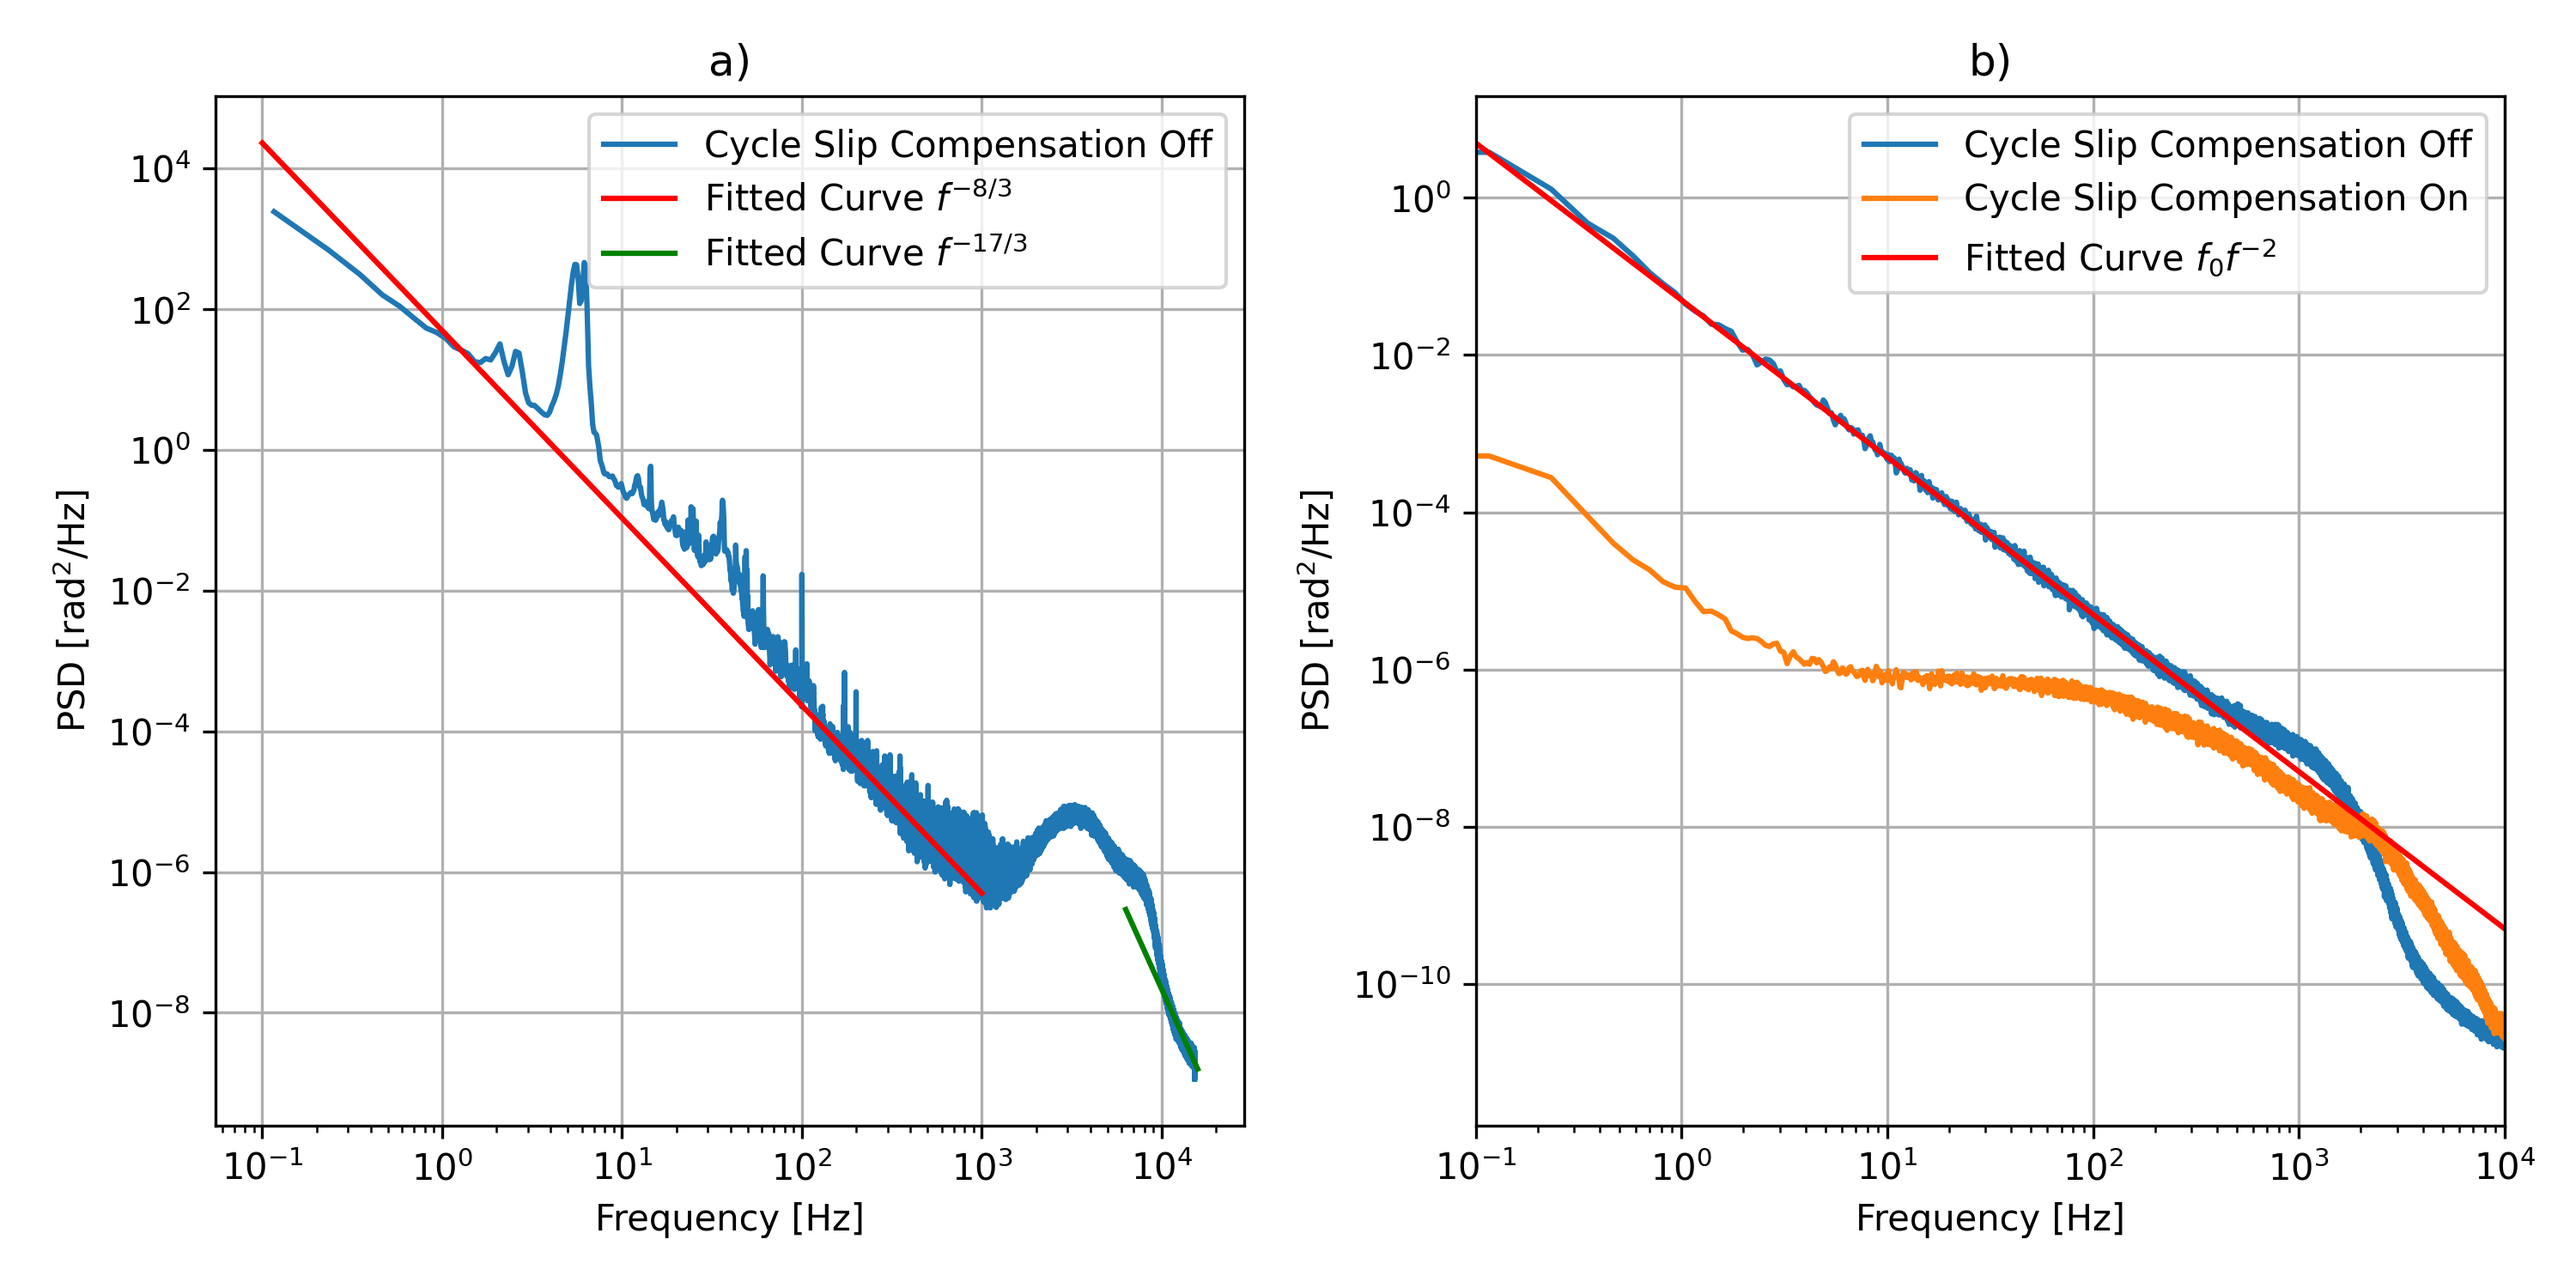
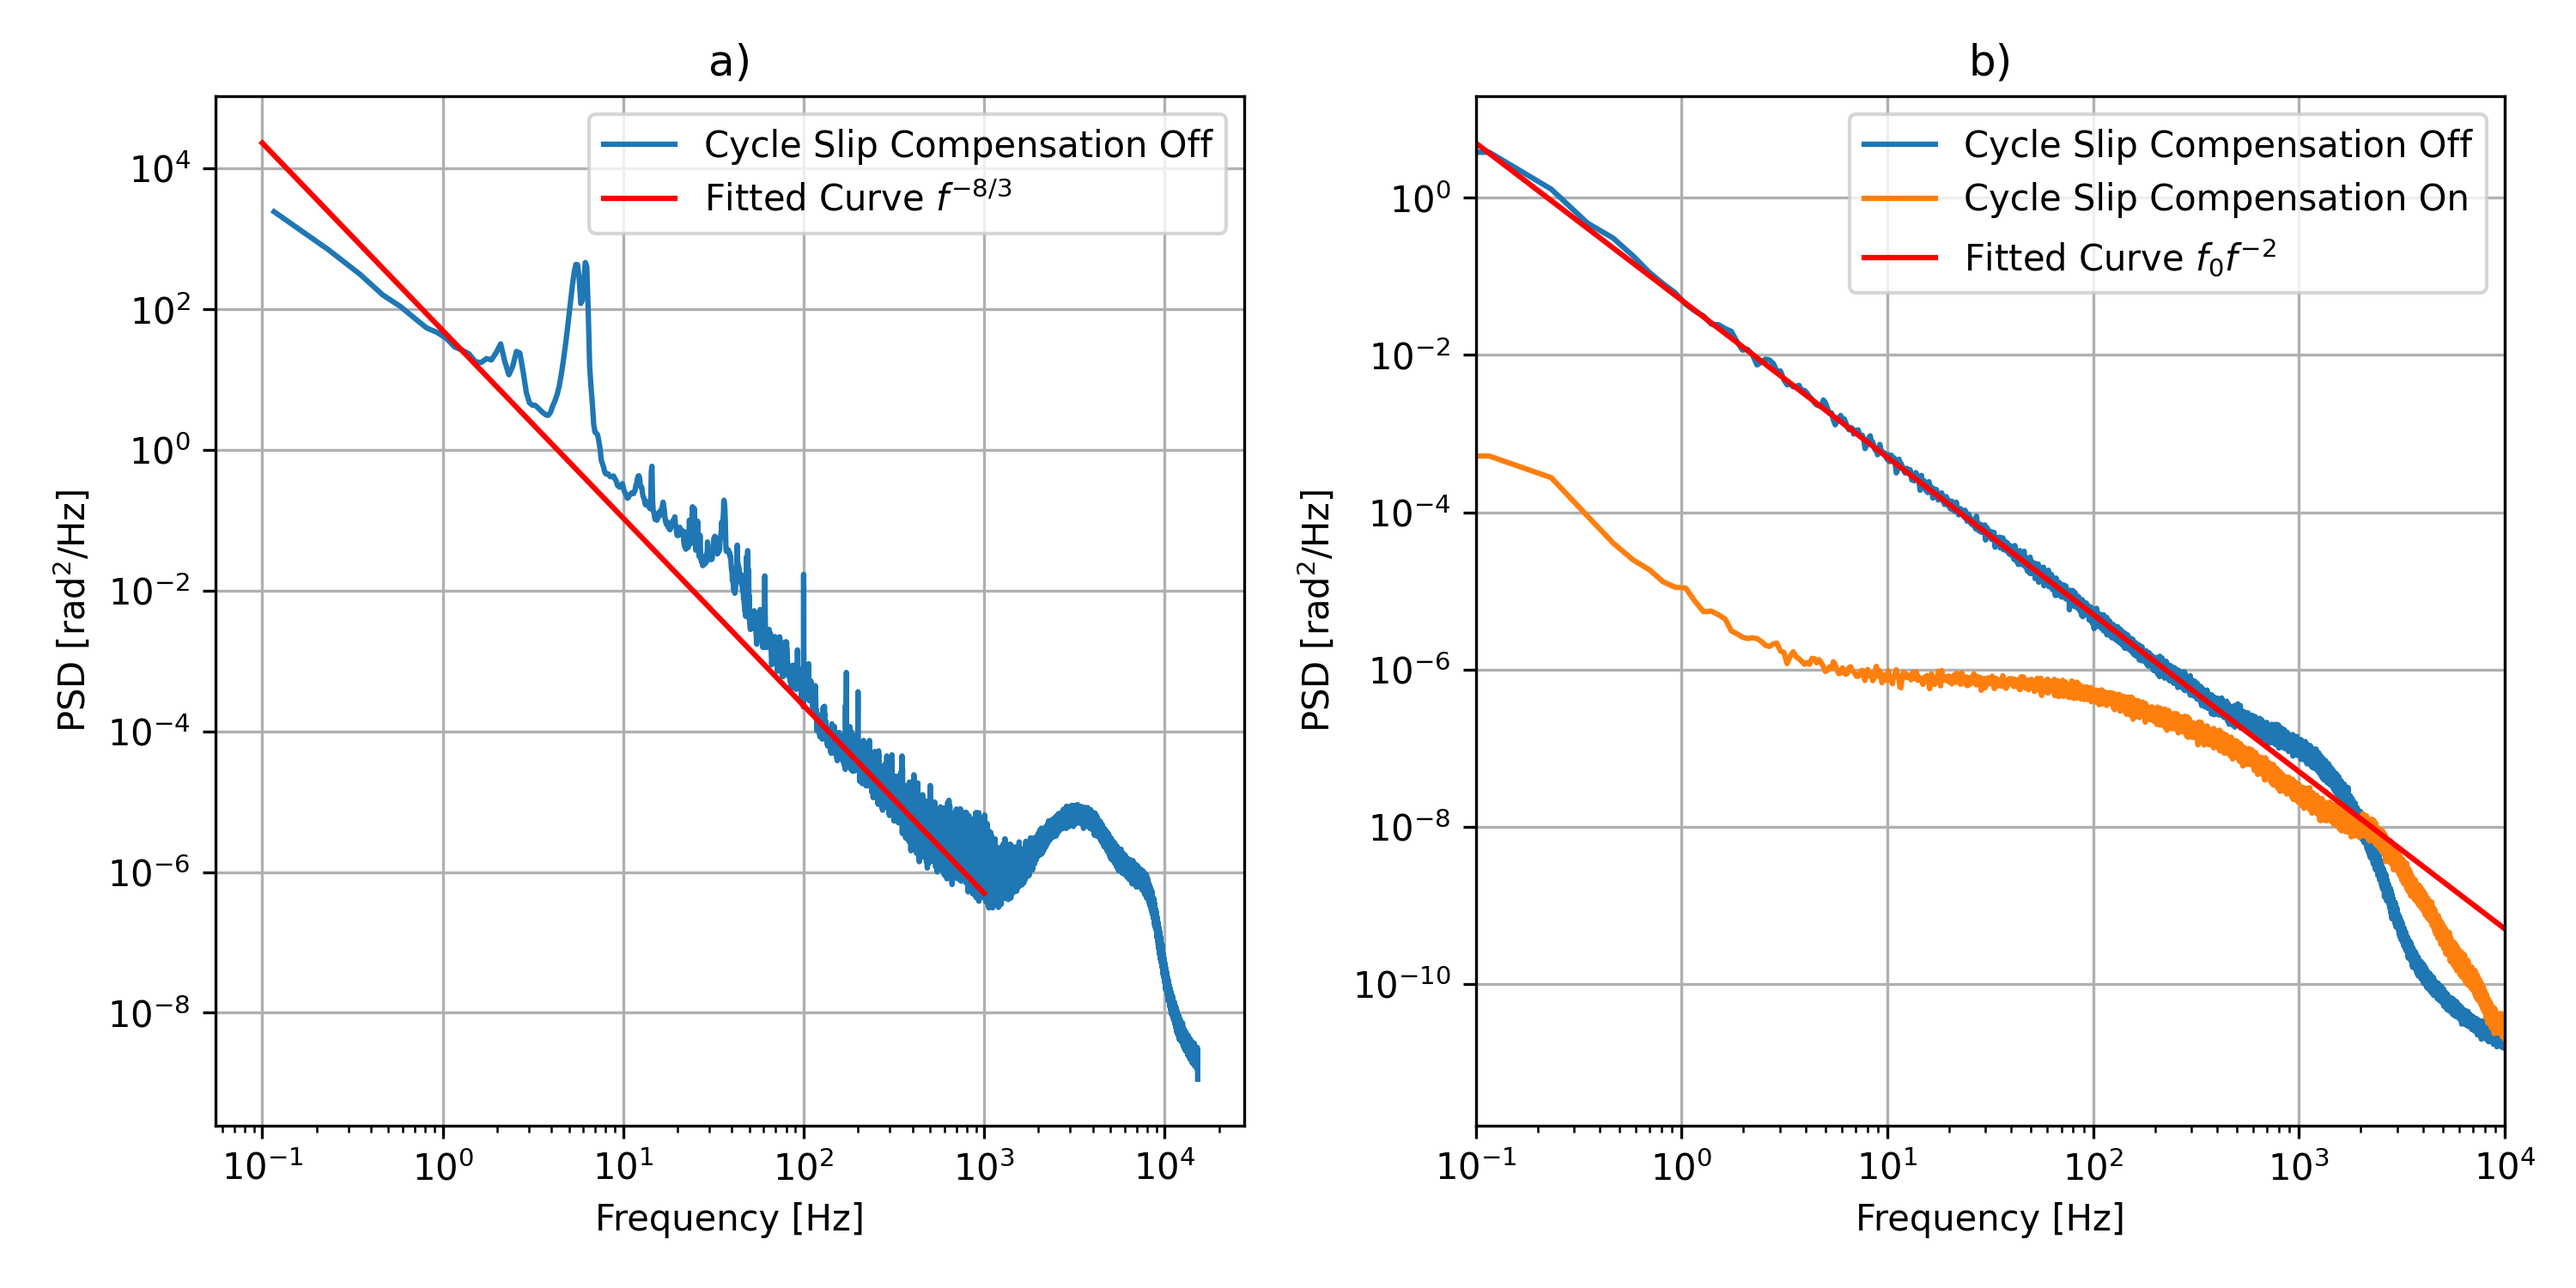
Working on making the Corrleation visualsiation

diff --git a/helper/Plotting/Plot_FuncPhaseNoise+Nichols.py b/helper/Plotting/Plot_FuncPhaseNoise+Nichols.py
@@ -4,37 +4,60 @@ import scipy.signal as sp
 from scipy.optimize import curve_fit
 
 
-## Generating the Data for Diff Phase Plot
-def unsigned_to_signed_array(unsigned_array):
-    mask = unsigned_array & 0x80000000
-    signed_array = np.where(mask, -((unsigned_array ^ 0xFFFFFFFF) + 1), unsigned_array)
-    return signed_array
+# #Grab moku data
+# def readMokuPhase(filename): #reads phase data column from a Moku Phasemeter file
+#     file=open(filename,'r')
+#     dataString=file.read()
+#     dataSplit=dataString.split('\n')
+#     data1=[]
+#     data2=[]
+#     data3=[]
+#     for row in dataSplit[9:-1]:#Moku phasemeter data starts at the 10th row
+#         row=row.split(',')
+#         data1.append(float(row[0]))
+#         data2.append(float(row[3]))
+#         data3.append(float(row[8]))
+#     return data1,data2,data3
 
-def readBinarytoPSD(filename, bytes=1e100, Downsample=32):
+# longMokuData = readMokuPhase("../../Data/0220929_074945_Diff_5_min_R127_moku_SMcSorley.csv") #row 0 is time
+# a1 = np.array(longMokuData[1]) #Moku file is in cycles, so scale to radians
+# b1 = a1*2*3.1415926
+# a2 = np.array(longMokuData[2]) #Moku file is in cycles, so scale to radians
+# b2 = a2*2*3.1415926
+# b3 = b1 - b2
+# f_MOKU, Pxx_MOKU = sp.welch(b3, 1.5625000000e+04, nperseg=2**18,)
+# print("moku plotted")
+# ## Generating the Data for Diff Phase Plot
+# def unsigned_to_signed_array(unsigned_array):
+#     mask = unsigned_array & 0x80000000
+#     signed_array = np.where(mask, -((unsigned_array ^ 0xFFFFFFFF) + 1), unsigned_array)
+#     return signed_array
 
-    Reading = 1
-    data = []
-    last = 0
-    count = 0
-    byte_number  = 150e6
-    with open(filename, "rb") as fp:
-        while Reading and count < bytes:
-            data.append(int.from_bytes(fp.read(4), "little"))
-            # print(count/byte_number*100, "%", end="\r")
-            if fp.tell() == last:
-                break
-            last = fp.tell()
-            count += 1
+# def readBinarytoPSD(filename, bytes=1e100, Downsample=32):
 
-    data=unsigned_to_signed_array(np.array(data[int(len(data)*0.1):int(len(data)*0.9)]))
-    data = data[data != 0]
-    data = 2*Downsample*np.pi*data/(2**32)
-    np.save("logger_dump.npy", data)
-    return sp.welch(data, fs = 30.5e3, nperseg=2**18)
+#     Reading = 1
+#     data = []
+#     last = 0
+#     count = 0
+#     byte_number  = 150e6
+#     with open(filename, "rb") as fp:
+#         while Reading and count < bytes:
+#             data.append(int.from_bytes(fp.read(4), "little"))
+#             # print(count/byte_number*100, "%", end="\r")
+#             if fp.tell() == last:
+#                 break
+#             last = fp.tell()
+#             count += 1
 
-f1, Pxx_den1 = readBinarytoPSD("../../Data/20230920_DiffNoise8Bit_30.5kHz600s_10MegSG_OutofLoopIntegral.bin")
-f2, Pxx_den2 = readBinarytoPSD("../../Data/20230920_DiffNoise12Bit_30.5kHz600s_10MegSG_OutofLoopIntegral.bin")
-f3, Pxx_den3 = readBinarytoPSD("../../Data/20230920_DiffNoise14Bit_30.5kHz600s_10MegSG_OutofLoopIntegral.bin")
+#     data=unsigned_to_signed_array(np.array(data[int(len(data)*0.1):int(len(data)*0.9)]))
+#     data = data[data != 0]
+#     data = 2*Downsample*np.pi*data/(2**32)
+#     np.save("logger_dump.npy", data)
+#     return sp.welch(data, fs = 30.5e3, nperseg=2**18)
+
+# f1, Pxx_den1 = readBinarytoPSD("../../Data/20230920_DiffNoise8Bit_30.5kHz600s_10MegSG_OutofLoopIntegral.bin")
+# f2, Pxx_den2 = readBinarytoPSD("../../Data/20230920_DiffNoise12Bit_30.5kHz600s_10MegSG_OutofLoopIntegral.bin")
+# f3, Pxx_den3 = readBinarytoPSD("../../Data/20230920_DiffNoise14Bit_30.5kHz600s_10MegSG_OutofLoopIntegral.bin")
 
 ##Generating the Data for Nichols Plot
 
@@ -76,34 +99,35 @@ zero_crossing_index = np.argmax(np.diff(np.sign(20 * np.log10(abs(L[0:n])))))
 
 ##Plotting
 
-fig = plt.figure(figsize=(10, 5))  # Adjust the figure size
-ax1 = plt.subplot(1, 2, 1)
-ax3 = plt.subplot(1, 2, 2)
+fig = plt.figure(figsize=(5, 5))  # Adjust the figure size
+# ax1 = plt.subplot(1, 1, 1)
+ax3 = plt.subplot(1,1, 1)
 
-# Plotting Diff Phase
-ax1.loglog(f1, Pxx_den1, label="8 Bit PA")
-ax1.loglog(f2, Pxx_den2, label="12 Bit PA")
-ax1.loglog(f3, Pxx_den3, label="14 Bit PA")
-ax1.set_title("a)")
-ax1.set_xlabel('Frequency [Hz]')
-ax1.set_ylabel('PSD [rad$^2$/Hz]')
-ax1.set_xlim(0.1, 1e4)
-# ax1.set_ylim(5e-13, 1e-8)
-ax1.legend()
-ax1.grid()
-## Plotting Nichols
+# # Plotting Diff Phase
+# ax1.loglog(f_MOKU, Pxx_MOKU, label="Moku")
+# ax1.loglog(f1, Pxx_den1, label="8 Bit PA")
+# ax1.loglog(f2, Pxx_den2, label="12 Bit PA")
+# ax1.loglog(f3, Pxx_den3, label="14 Bit PA")
+# # ax1.set_title("a)")
+# ax1.set_xlabel('Frequency [Hz]')
+# ax1.set_ylabel('PSD [rad$^2$/Hz]')
+# ax1.set_xlim(0.1, 1e4)
+# ax1.set_ylim(1e-14, 1e-8)
+# ax1.legend()
+# ax1.grid()
+# Plotting Nichols
 
 ax3.plot(np.angle(L[0:n]) * 180 / np.pi, 20 * np.log10(abs(L[0:n])))
 ax3.set_xlabel('Phase (degrees)')
 ax3.set_ylabel('Magnitude (dB)')
-ax3.set_ylim(-5, 150)
+ax3.set_ylim(-25, 150)
 ax3.axhline(y=0, color='r', linestyle='--')
 
 # Annotate the phase margin
 pm = 180 + np.angle(L[UGF_index]) * 180 / np.pi
 ax3.text(np.angle(L[zero_crossing_index]) * 180 / np.pi + 15, 5, f'Phase Margin = {pm:.2f} degrees', color='black')
 ax3.grid(True)
-ax3.set_title("b)")
+# ax3.set_title("b)")
 
 ##Saving
 

diff --git a/helper/Plotting/Plot_ExampleCorrelation.py b/helper/Plotting/Plot_ExampleCorrelation.py
@@ -1,0 +1,69 @@
+import numpy as np
+import matplotlib.pyplot as plt
+import scipy.signal as sp
+import matplotlib
+matplotlib.rcParams['mathtext.fontset'] = 'custom'
+matplotlib.rcParams['mathtext.rm'] = 'Times New Roman'
+matplotlib.rcParams['mathtext.it'] = 'Times New Roman:italic'
+matplotlib.rcParams['mathtext.bf'] = 'Times New Roman:bold'
+times = {'fontname': 'Times New Roman'}
+ax1 = plt.subplot(2,1,1)
+# ax1 = plt.axes(frameon=False)
+ax1.spines['top'].set_visible(False)
+ax1.spines['right'].set_visible(False)
+ax1.spines['bottom'].set_visible(False)
+ax1.spines['left'].set_visible(False)
+ax1.get_xaxis().set_ticks([])
+ax1.get_yaxis().set_ticks([])
+
+def periodic_corr(x, y):
+    """Periodic correlation, implemented using the FFT.
+
+    x and y must be real sequences with the same length.
+    """
+    return np.fft.ifft(np.fft.fft(x) * np.fft.fft(y).conj()).real
+
+delay = 120
+length = 10
+stretch = 500
+Offset = 2.2
+PRBS = 2*(np.repeat(sp.max_len_seq(8, state=[1,0,1,1,0,1,0,1], length=length)[0],stretch)-0.5)
+Delayed = np.roll(PRBS, delay)
+
+Colours = [ 'y', 'm', 'c']
+
+for i in range(len(Colours)):
+    ax1.plot(PRBS - i*Offset, linewidth=2, alpha=0.7, c='r')  # Adjusted line thickness and transparency
+    ax1.plot(np.roll(PRBS, i*delay) - i*Offset, linewidth=2, alpha=0.7, c='b')  # Adjusted line thickness and transparency
+    ax1.fill_between(np.linspace(0,stretch*length,stretch*length),PRBS - i*Offset, -np.roll(PRBS, i*delay) - i*Offset, alpha=0.2, color=Colours[i], label='Shaded Area')
+
+ax2 = plt.subplot(2,1,2)
+# ax2 = plt.axes(frameon=False)
+ax2.spines['top'].set_visible(False)
+ax2.spines['right'].set_visible(False)
+ax2.spines['bottom'].set_visible(False)
+ax2.spines['left'].set_visible(False)
+ax2.get_xaxis().set_ticks([])
+ax2.get_yaxis().set_ticks([])
+
+
+data = np.abs(periodic_corr(PRBS, np.roll(PRBS, delay))) 
+interval = stretch
+indices = np.arange(0, len(data), interval)
+x_positions = np.arange(len(indices))
+ax2.scatter(x_positions, data[indices], color='b')
+ax2.set_ylim(0, 3200)
+count = 0
+
+for i in np.transpose([x_positions, data[indices]] ):
+    colour = 'b'
+    if count < len(Colours):
+        colour = Colours[count]
+    ax2.vlines(i[0], ymin = 0, ymax = i[1],colors=colour)
+    # ax2.vlines(i[0], ymin = i[1], ymax = i[1])
+    count += 1
+for i in range(3):
+    plt.scatter(x_positions[i], data[indices][i], c=Colours[i])
+
+plt.tight_layout()
+plt.show()

diff --git a/helper/Plotting/Plot_PRBS_Examply.py b/helper/Plotting/Plot_PRBS_Examply.py
@@ -1,0 +1,41 @@
+import numpy as np
+import matplotlib.pyplot as plt
+import matplotlib
+matplotlib.rcParams['mathtext.fontset'] = 'custom'
+matplotlib.rcParams['mathtext.rm'] = 'Times New Roman'
+matplotlib.rcParams['mathtext.it'] = 'Times New Roman:italic'
+matplotlib.rcParams['mathtext.bf'] = 'Times New Roman:bold'
+Offset = 2.5
+times = {'fontname': 'Times New Roman'}
+pos = 1.1
+size = 14
+Carrier    = np.sin(np.linspace(0,8*np.pi, 1000))
+PRBS   = np.repeat(2*(np.random.randint(0,high=2,size=10)-0.5),100)
+Modulated = Carrier*PRBS
+Delayed = np.roll(Modulated,100)
+index = np.where(np.diff(PRBS) != 0)[0][2]
+plt.figure(figsize=(10,6))
+ax = plt.axes(frameon=False)
+ax.spines['top'].set_visible(False)
+ax.spines['right'].set_visible(False)
+ax.spines['bottom'].set_visible(False)
+ax.spines['left'].set_visible(False)
+ax.get_xaxis().set_ticks([])
+ax.get_yaxis().set_ticks([])
+plt.plot(Carrier, label="Optical Signal")
+plt.plot(PRBS - Offset, label="PRBS")
+plt.plot(Modulated - 2*Offset, label="Modulated Signal")
+plt.plot(Delayed - 3*Offset, label="Received Signal")
+plt.vlines(index, -3*Offset, -2*Offset, colors='r', linestyles='dotted', label="Vertical Line")
+plt.vlines(index+100, -3*Offset, -2*Offset, colors='r', linestyles='dotted', label="Vertical Line")
+plt.hlines(-6.5, index, index+100, colors='r', linestyles='dotted', label="Horizontal Line")
+plt.text(index + 50, -6.4, "$\\tau$", fontsize=20, color='black', fontdict=times)
+
+plt.text(10, pos, "Optical Signal", fontsize=size, color='black', fontdict=times)
+plt.text(10, pos - Offset, "PRBS Sequence", fontsize=size, color='black', fontdict=times)
+plt.text(10, pos - 2*Offset, "Modulated Signal", fontsize=size, color='black', fontdict=times)
+plt.text(10, pos  - 3*Offset, "Recieved Signal", fontsize=size, color='black', fontdict=times)
+plt.tight_layout()
+plt.savefig("../../Plots/PRBS_Example.png", dpi=300)
+# plt.show()
+

diff --git a/helper/Plotting/Plot_LinkAtmosphere+LinkDiff.py b/helper/Plotting/Plot_LinkAtmosphere+LinkDiff.py
@@ -32,14 +32,14 @@ x_fit = np.logspace(-1, 3, 1000)  # Generate x values for the fitted curve
 y_fit = power_law(x_fit, a_fit, b_fit)
 ax1.loglog(x_fit, y_fit, 'r', label='Fitted Curve $f^{-8/3}$')
 
-params, covariance = curve_fit(power_law, f, Pxx, p0=[1e15, -17/3])
-a_fit, b_fit = params
-print("Fitted parameters:")
-print("a =", a_fit)
-print("b =", b_fit)
-x_fit = np.logspace(3.8, 4.2, 1000)  # Generate x values for the fitted curve
-y_fit = power_law(x_fit, a_fit, b_fit)
-ax1.loglog(x_fit, y_fit, 'g', label='Fitted Curve $f^{-17/3}$')
+# params, covariance = curve_fit(power_law, f, Pxx, p0=[1e15, -17/3])
+# a_fit, b_fit = params
+# print("Fitted parameters:")
+# print("a =", a_fit)
+# print("b =", b_fit)
+# x_fit = np.logspace(3.8, 4.2, 1000)  # Generate x values for the fitted curve
+# y_fit = power_law(x_fit, a_fit, b_fit)
+# ax1.loglog(x_fit, y_fit, 'g', label='Fitted Curve $f^{-17/3}$')
 ax1.grid()
 ax1.set_title("a)")
 ax1.legend()

diff --git a/helper/Plotting/PM_GOL.py b/helper/Plotting/PM_GOL.py
@@ -27,7 +27,7 @@ T = 12 # CIC Truncation and scaling to 14 bits, 14 bits -> 24 bits (14+2*log2(32
 
 Ps = 1
 KG = 1
-KI = 0.001/2**16
+KI = 50/2**16
 KP = 20000/2**16
 
 
